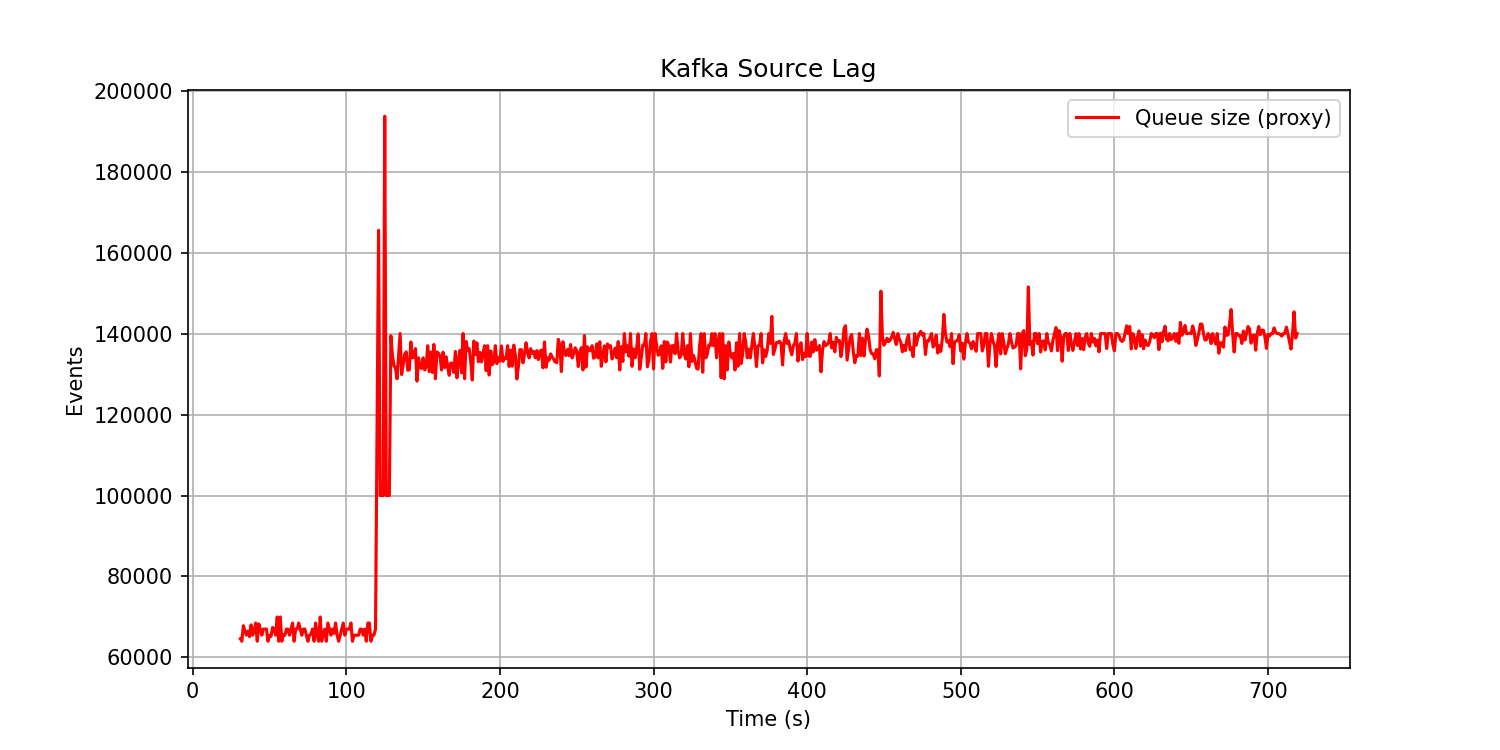
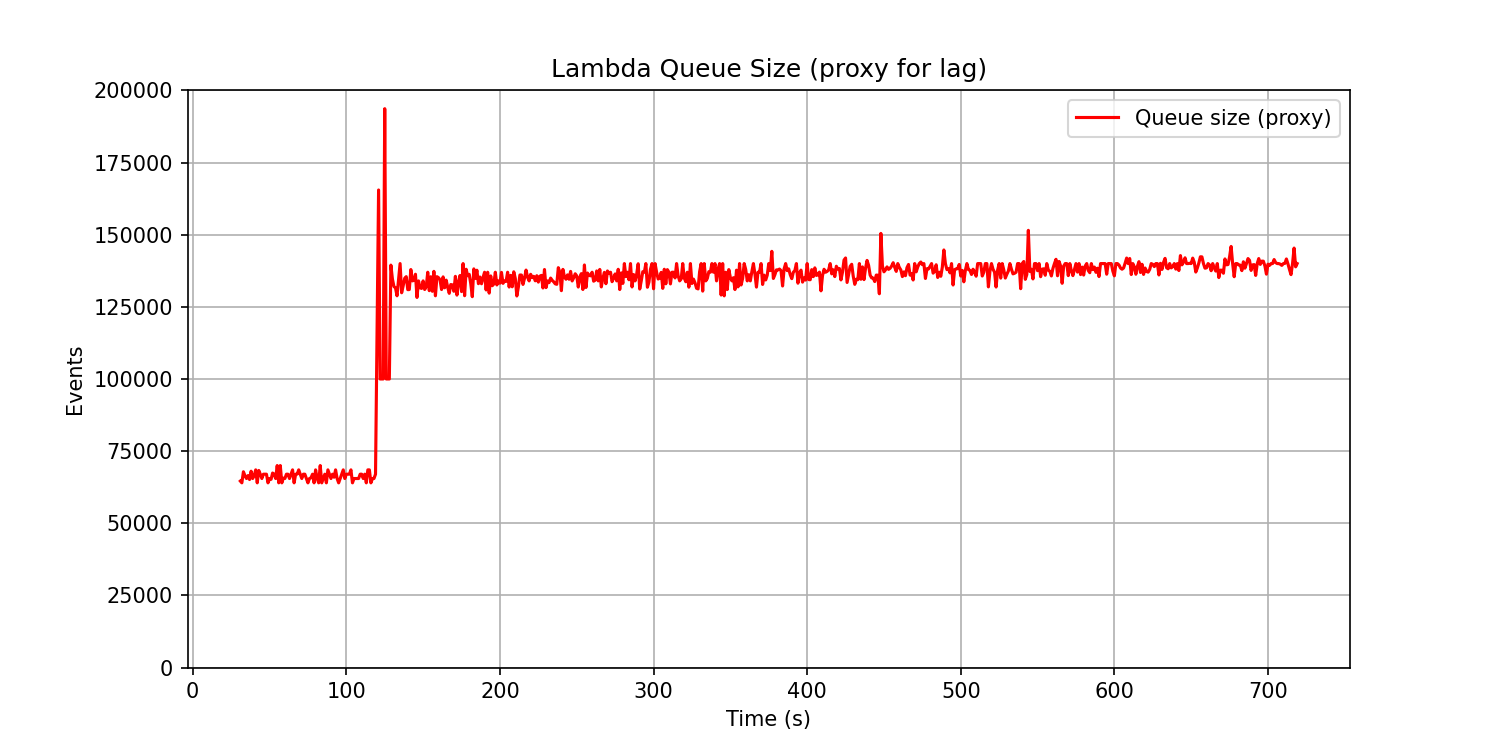
Polish nemo plots: fix empty plots, honest titles, smoother lines
- Remove empty latency.png and kafka_result_lag.png for reconstructed
  runs (no latency data available from scaler_metrics)
- plot_latency: skip saving if no valid data points to plot
- kafka_source_lag: use Y-axis from 0 and title "Lambda Queue Size
  (proxy for lag)" when falling back to queueSize data
- Kafka offset rate: increase smoothing window 5→10 to reduce
  oscillation artifacts in the 200k spiral run

diff --git a/scripts/cloudlab/plot_metrics.py b/scripts/cloudlab/plot_metrics.py
@@ -144,7 +144,7 @@ def plot_input_rate(df: pd.DataFrame, work_dir: str):
         plt.plot(df["rel_s"], df["avgInput"], label="Source input rate (avg)")
     if "inputOffset" in df.columns and (df["inputOffset"] > 0).any():
         raw = df["inputOffset"].diff() / dt
-        smoothed = raw.rolling(5, min_periods=1, center=True).mean()
+        smoothed = raw.rolling(10, min_periods=1, center=True).mean()
         plt.plot(df["rel_s"], smoothed, label="Kafka input offset rate")
     if "resultOffset" in df.columns and (df["resultOffset"] > 0).any():
         raw = df["resultOffset"].diff() / dt
@@ -171,13 +171,15 @@ def plot_kafka_lag(df: pd.DataFrame, work_dir: str):
     if not plotted and "queueSize" in df.columns and (df["queueSize"] >= 0).any():
         valid = df["queueSize"] >= 0
         plt.plot(df.loc[valid, "rel_s"], df.loc[valid, "queueSize"], label="Queue size (proxy)", color="red")
+        plt.ylim(bottom=0)
         plotted = True
     if not plotted:
         plt.close()
         return
     plt.xlabel("Time (s)")
     plt.ylabel("Events")
-    plt.title("Kafka Source Lag")
+    title = "Kafka Source Lag" if plotted and "inputLag" in df.columns and (df["inputLag"] > 0).any() else "Lambda Queue Size (proxy for lag)"
+    plt.title(title)
     plt.legend()
     plt.grid(True)
     save_plot(work_dir, "kafka_source_lag")
@@ -221,10 +223,16 @@ def plot_latency(df: pd.DataFrame, work_dir: str):
         return
     plt.figure(figsize=(10, 5))
     styles = [("-", 2.0), ("--", 1.5), (":", 1.5)]
+    any_plotted = False
     for (col, label), (ls, lw) in zip([("latencyMedian", "p50"), ("latencyP95", "p95"), ("latencyP99", "p99")], styles):
         if col in df.columns:
             valid = df[col] >= 0
-            plt.plot(df.loc[valid, "rel_s"], df.loc[valid, col], label=label, linestyle=ls, linewidth=lw)
+            if valid.any():
+                plt.plot(df.loc[valid, "rel_s"], df.loc[valid, col], label=label, linestyle=ls, linewidth=lw)
+                any_plotted = True
+    if not any_plotted:
+        plt.close()
+        return
     plt.xlabel("Time (s)")
     plt.ylabel("Latency (ms)")
     plt.title("End-to-End Latency")
